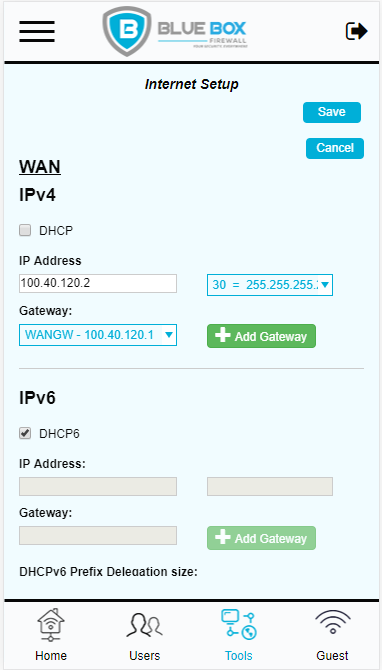
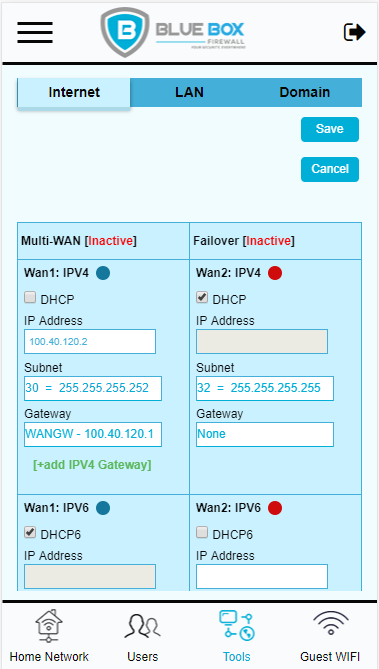
tools

diff --git a/index.html b/index.html
@@ -596,8 +596,14 @@
 <!--Internet setup-->
 
 <h4 id="internet">Internet Setup:</h4>
-
-<label>LAN address using DHCP for WAN IP address:</label>
+<p>The internet setup screen is divided into three separate parts:</p>
+	<ol>
+		<li>Internet</li>
+		<li>LAN</li>
+		<li>Domain</li>
+	</ol>
+<p>The below image is the internet section of Internet setup screen:</p>
+<div style="display: none;"><label>LAN address using DHCP for WAN IP address:</label>
 <ul>
 	<li>Blue box firewall can setup and use any LAN IP address with DHCP. (default is 192.168.2.XXX).</li>
 	<li>When changing the local IP address from 192.168.2.xxx to match your current local IP address range, you must change your router to use a different address range </li>
@@ -608,6 +614,7 @@
 	<li>You must plug directly into your cable modem or put your router into bridge mode.</li>
 </ul>
 <p>Note: <i> If you have doubts regarding how to set your router to bridge mode. You can visit the following link:  </i> <a href="https://support.norton.com/sp/en/us/home/current/solutions/v119939113_EndUserProfile_en_us"> Set router to bridge mode</a></p>
+</div>
 
 <center><img src="Photos (2)/internet setup.PNG"></center>
 <p>Internet setup screen is used to change Ipv4 and Ipv6 information. </p>
@@ -667,6 +674,24 @@
 	<li>User must add valid gateway otherwise user can get validation message </li>
 	<li>If the user deselects DHCP option and user does not enter Ipv4 address, then user will get an error message</li>
 </ul>
+<br/>
+<hr/>
+
+<!--LAN Screen-->
+
+<h4>LAN Screen:</h4>
+<center><img src="Photos (2)/LAN screen.PNG"></center>
+<p>This screen has the LAN information of users. Users can see their IP addresses of their LAN and Wi-Fi and add the subnet.</p>
+<p><i>Note:</i> If users want to use thier own DHCP server they have to refer  VLAN20 for IP range. (For Wi-Fi IP address only)</p>
+<br/>
+<hr/>
+
+<!--Domain Screen-->
+
+<h4>Domain Screen:</h4>
+<center><img src="Photos (2)/domain screen.PNG"></center>
+<p>This screen has the windows domain server information:</p>
+<p>users can test the connection in this screen by clicking on the "Test connection" button located at the bottom of the screen.</p>
 <br/>
 <hr/>
 
